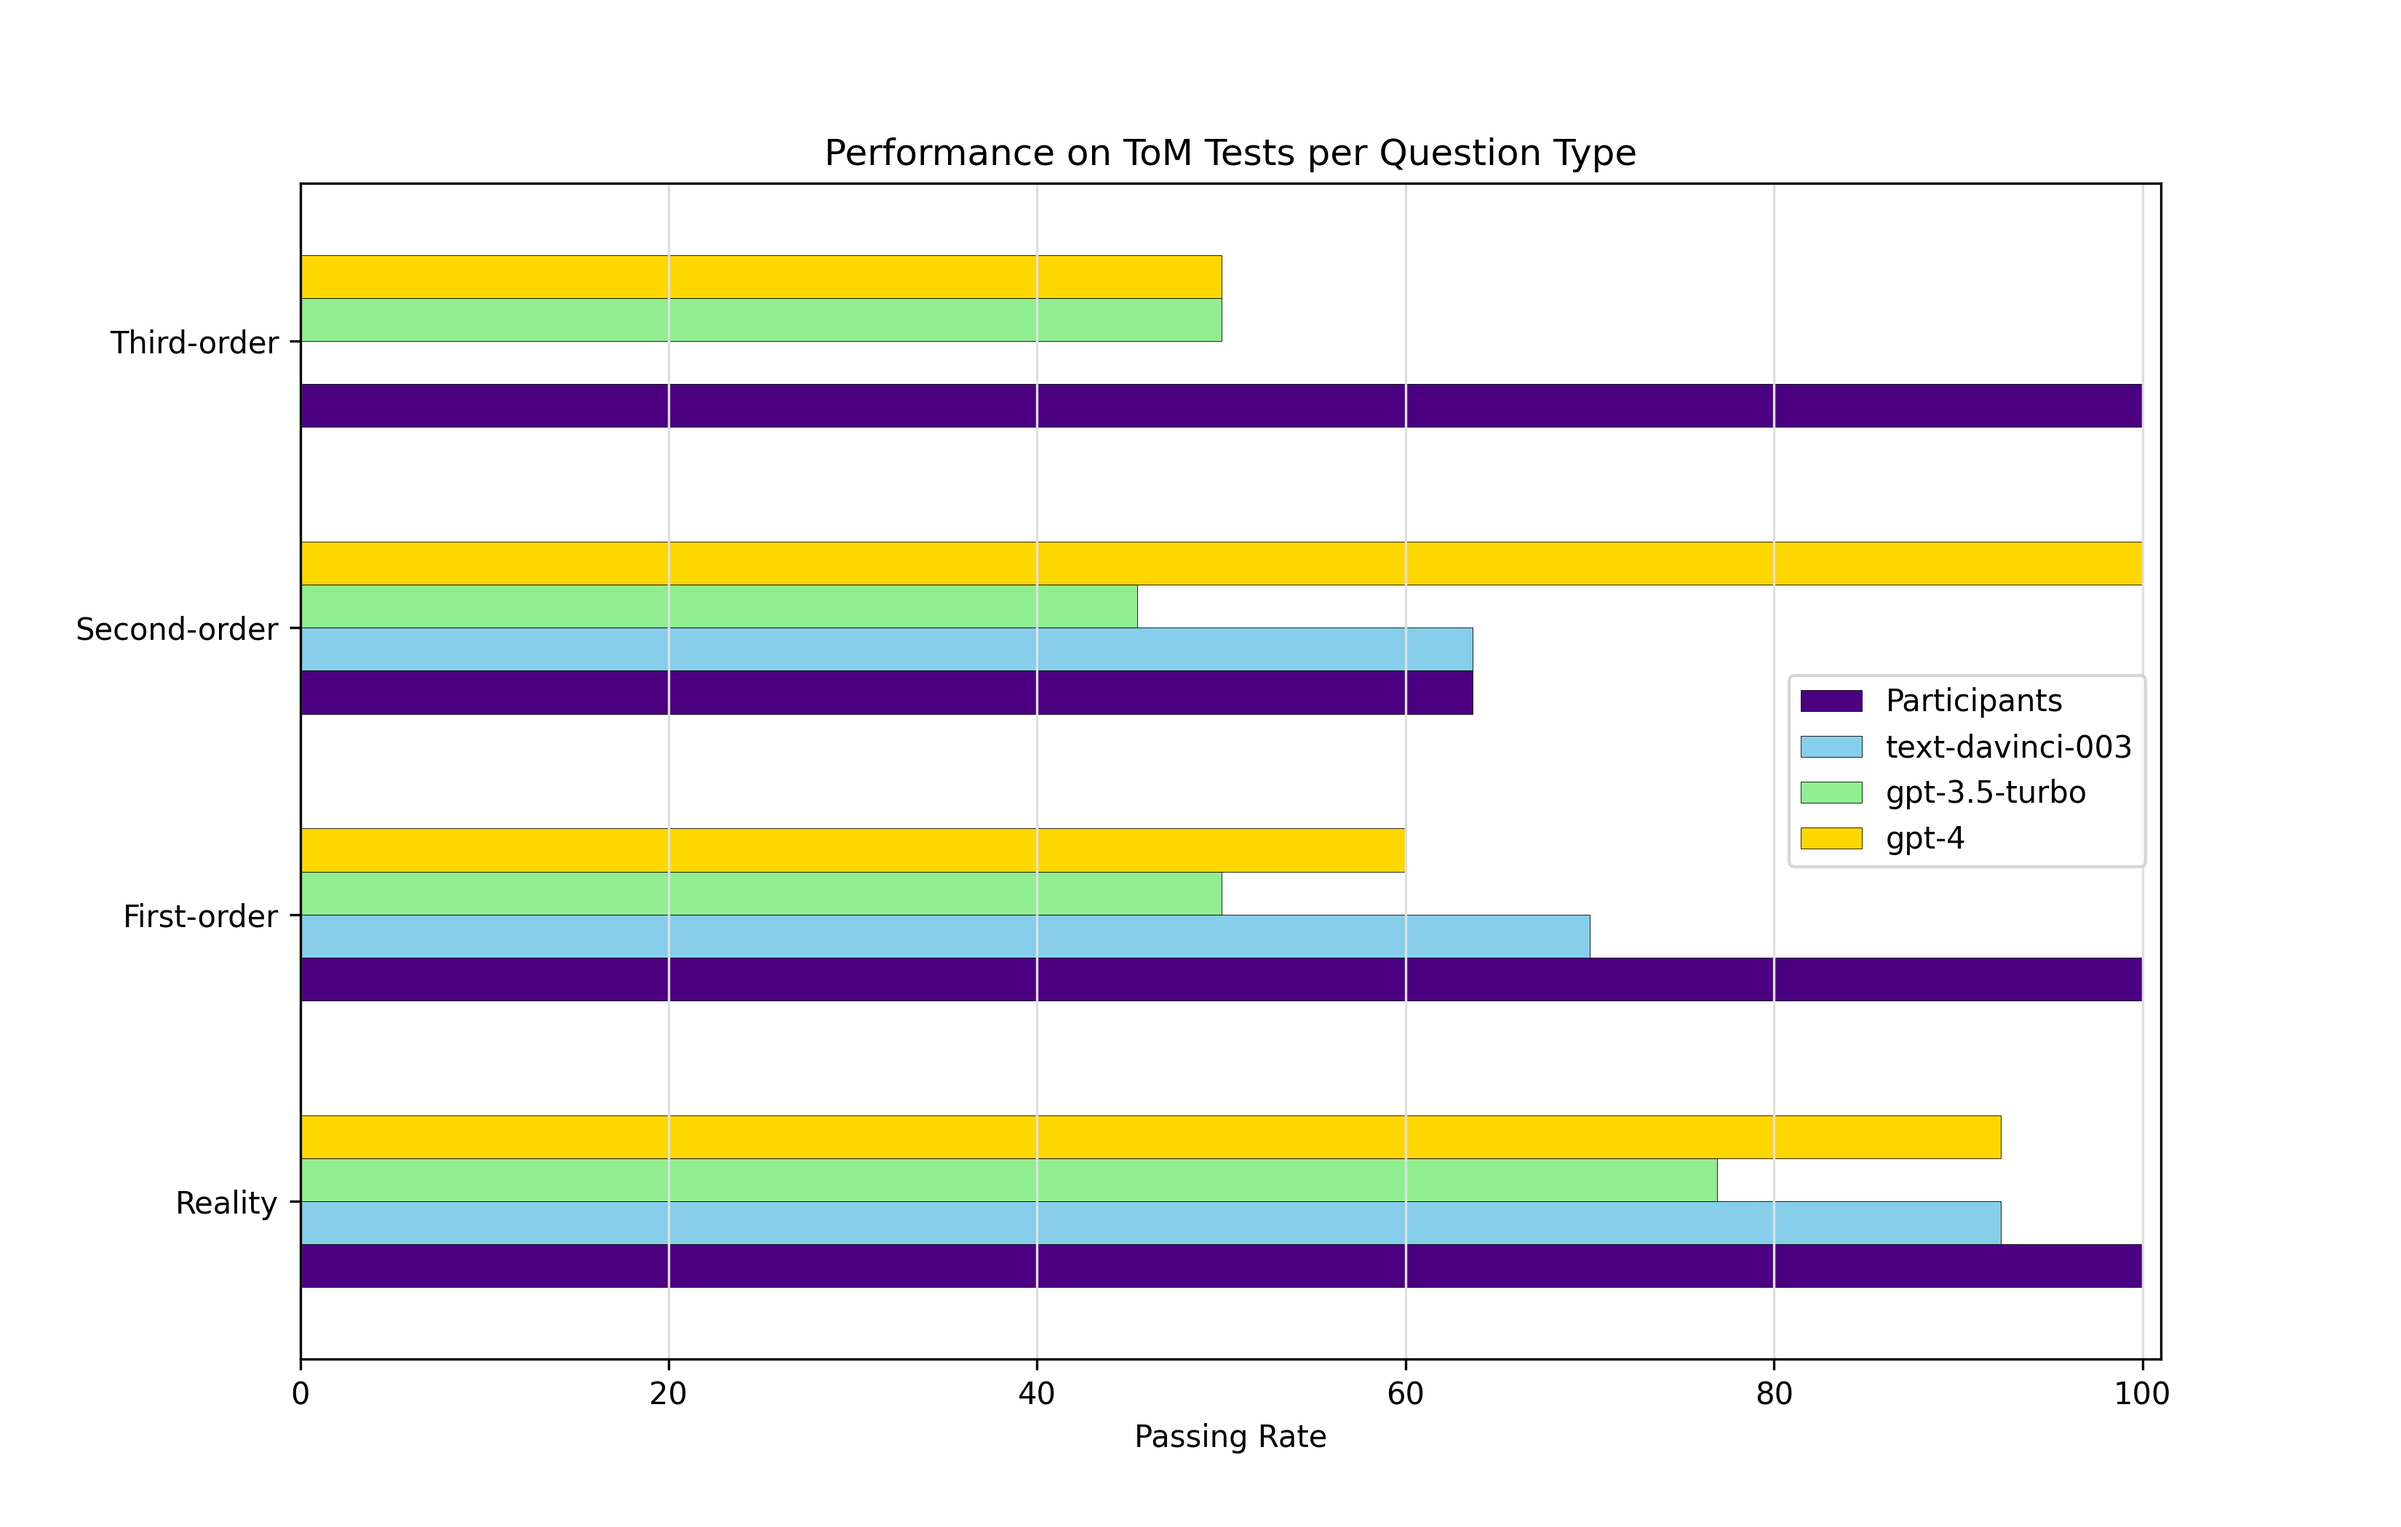
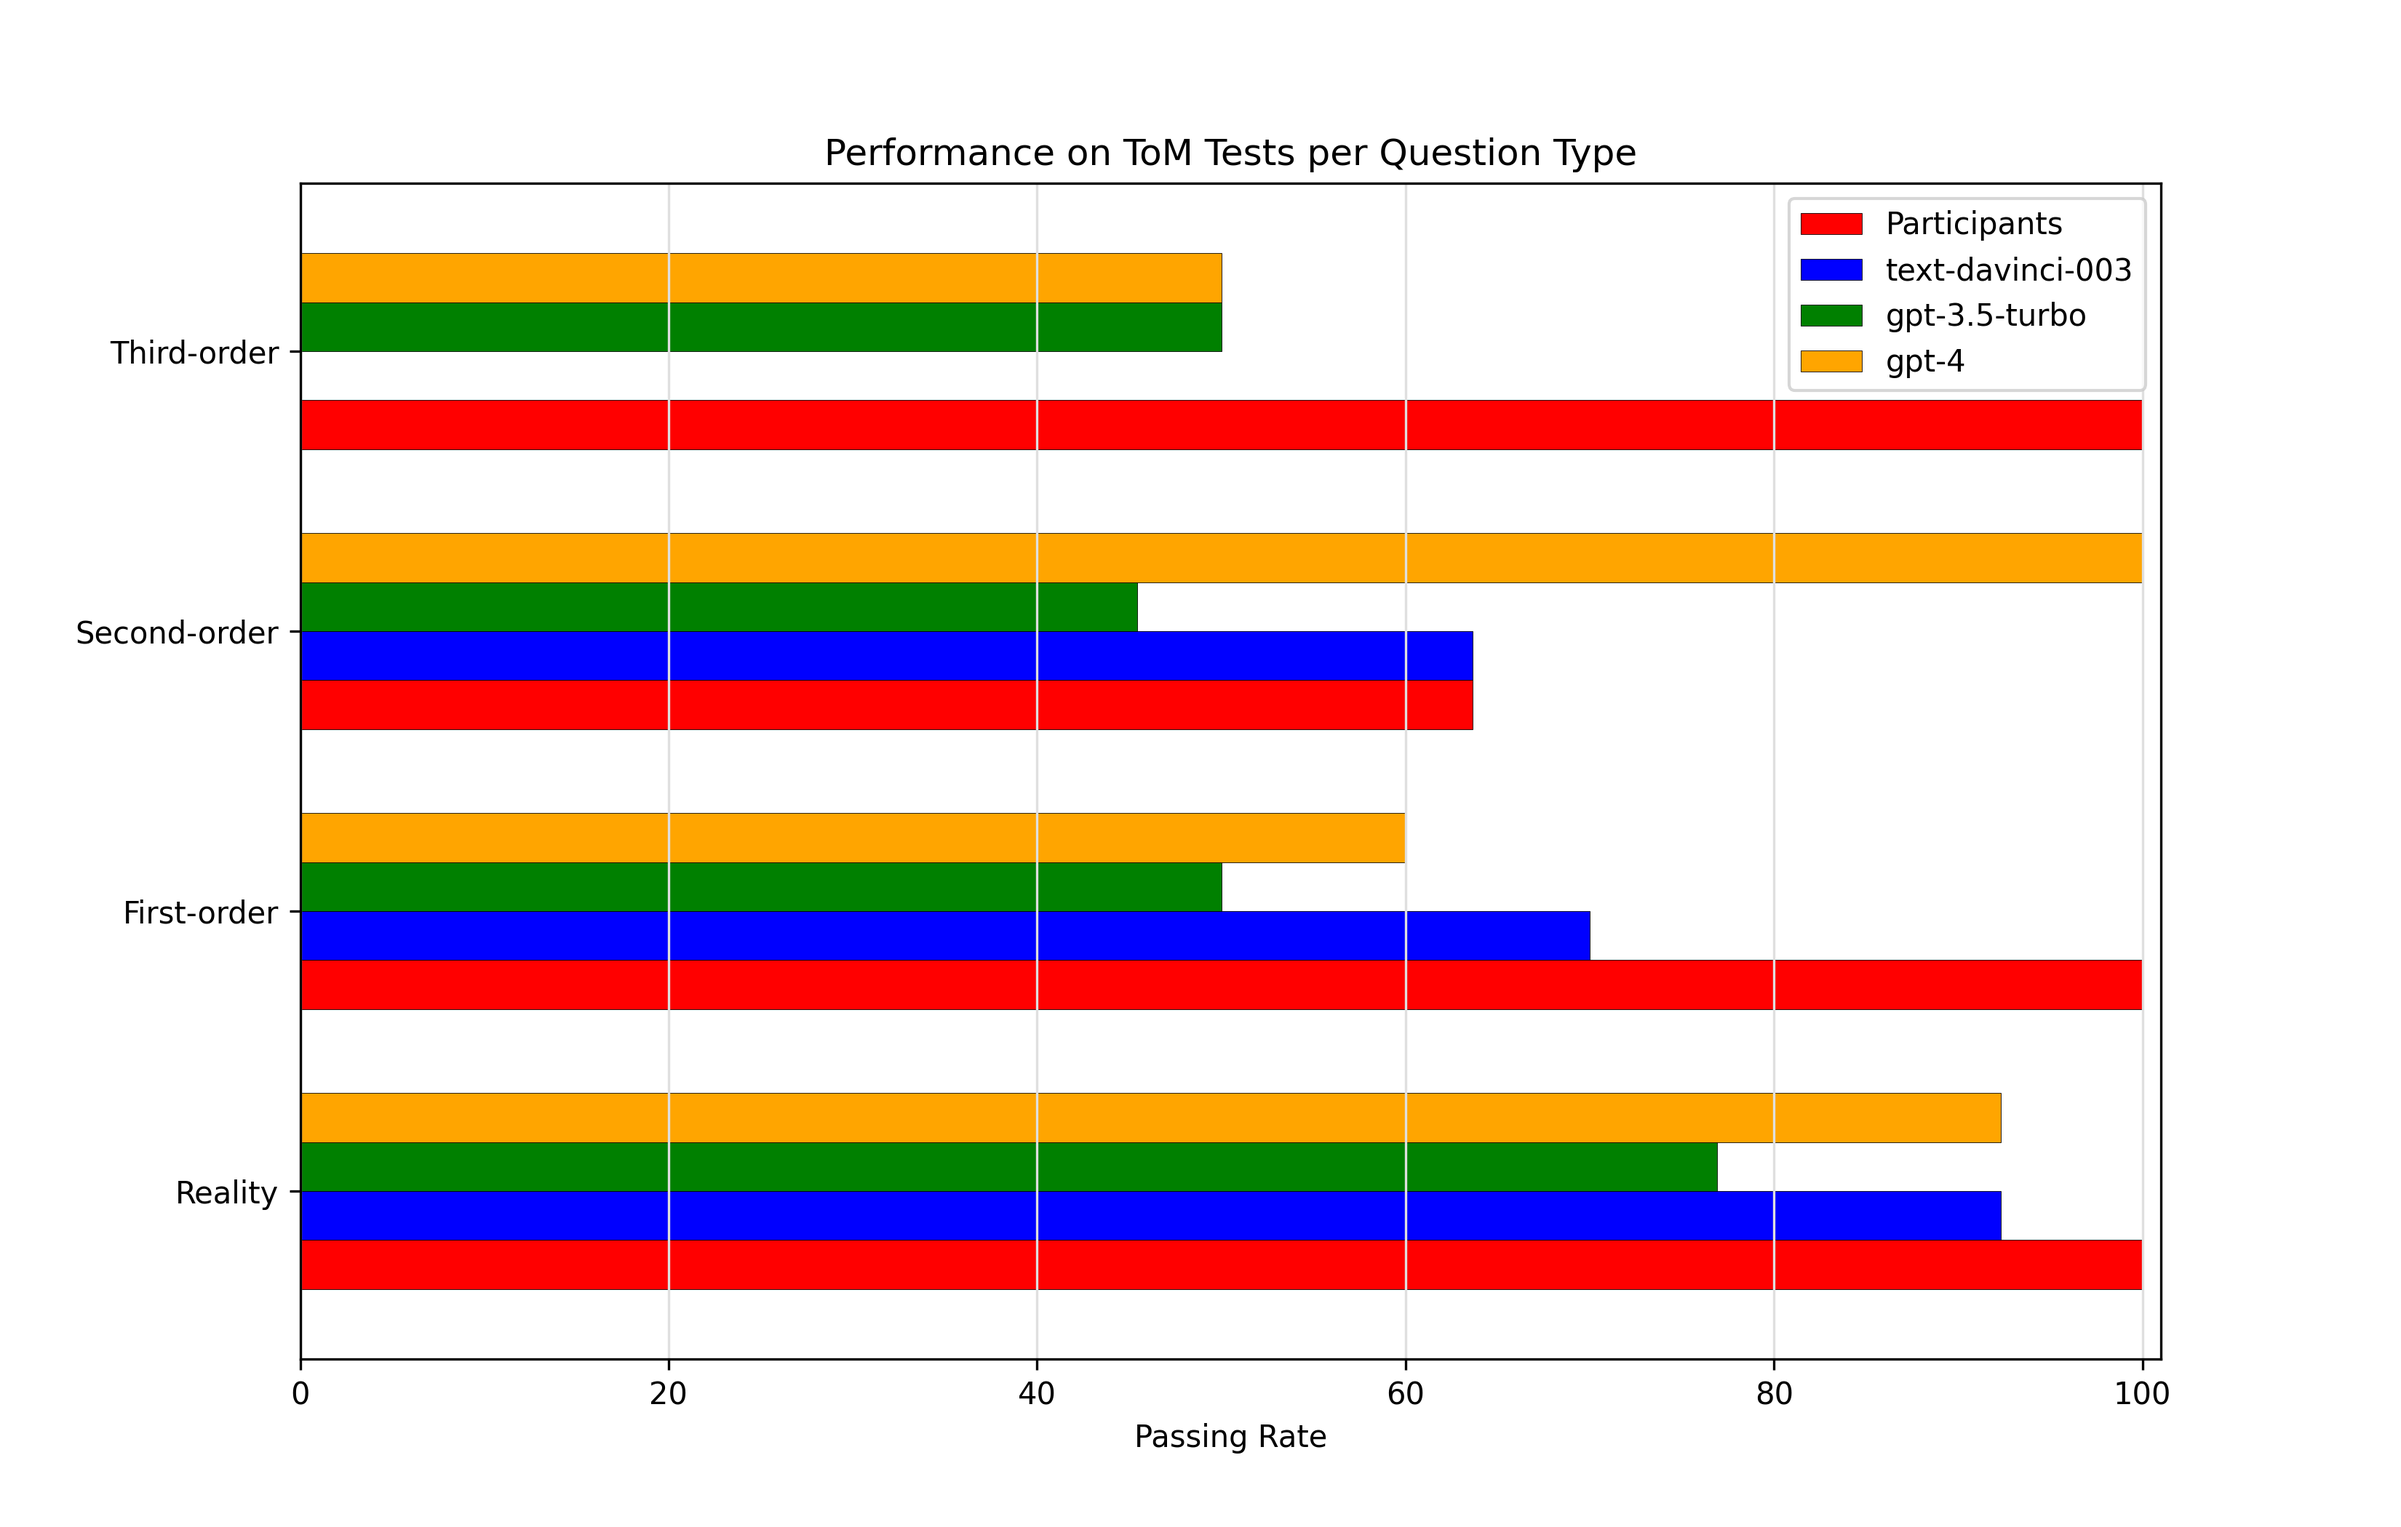
New plots

diff --git a/Auxiliary.py b/Auxiliary.py
@@ -130,7 +130,7 @@ def preprocess_ToM_stories():
                     [gpt_3_5[9], gpt_3_5[10], gpt_3_5[11], gpt_3_5[12], gpt_3_5[13], gpt_3_5[14], gpt_3_5[21], gpt_3_5[22], gpt_3_5[23], gpt_3_5[24], gpt_3_5[25], gpt_3_5[26]],
                     [gpt_4[9], gpt_4[10], gpt_4[11], gpt_4[12], gpt_4[13], gpt_4[14], gpt_4[21], gpt_4[22], gpt_4[23], gpt_4[24], gpt_4[25], gpt_4[26]]])
     return UTT, UCT, DBT
-    
+
 # Generate the performance plot based on the type of the ToM story
 def performance_per_story_type():
     UTT, UCT, DBT = preprocess_ToM_stories()
@@ -143,7 +143,7 @@ def performance_per_story_type():
     
     df = pd.DataFrame({ "Participants" : participants_results, "text-davinci-003" : text_davinci_003_results, "gpt-3.5-turbo" : gpt_3_5_results, "gpt-4" : gpt_4_results}, index = categories)
     #color = cm.rainbow_r(np.linspace(0, 1, 4))
-    color = {"Participants" : "indigo", "text-davinci-003" : "skyblue", "gpt-3.5-turbo" : "lightgreen", "gpt-4" : "gold"}
+    color = {"Participants" : "red", "text-davinci-003" : "blue", "gpt-3.5-turbo" : "green", "gpt-4" : "orange"}
     ax = df.plot.barh(figsize = (13, 7), width = 0.6, color = color, edgecolor = 'black', linewidth = 0.2)
     ax.set_xlabel("Passing Rate")
     ax.set_title("Performance on ToM Tests per Story Type")
@@ -226,8 +226,8 @@ def performance_per_question_type():
     
     df = pd.DataFrame({ "Participants" : participants_results, "text-davinci-003" : text_davinci_003_results, "gpt-3.5-turbo" : gpt_3_5_results, "gpt-4" : gpt_4_results}, index = categories)
     #color = cm.viridis_r(np.linspace(.9, .2, 4))
-    color = {"Participants" : "indigo", "text-davinci-003" : "skyblue", "gpt-3.5-turbo" : "lightgreen", "gpt-4" : "gold"}
-    ax = df.plot.barh(figsize = (11, 7), width = 0.6, color = color, edgecolor = 'black', linewidth = 0.2)
+    color = {"Participants" : "red", "text-davinci-003" : "blue", "gpt-3.5-turbo" : "green", "gpt-4" : "orange"}
+    ax = df.plot.barh(figsize = (11, 7), width = 0.7, color = color, edgecolor = 'black', linewidth = 0.2)
     ax.set_xlabel("Passing Rate")
     ax.set_title("Performance on ToM Tests per Question Type")
     ax.xaxis.grid(True, color = "#DFDFDF", alpha = 1)
@@ -268,4 +268,3 @@ def performance_per_question_type_subplots():
    
    plt.show()
    #plt.savefig('PpQ_subplots.png', dpi = 300)
-   
